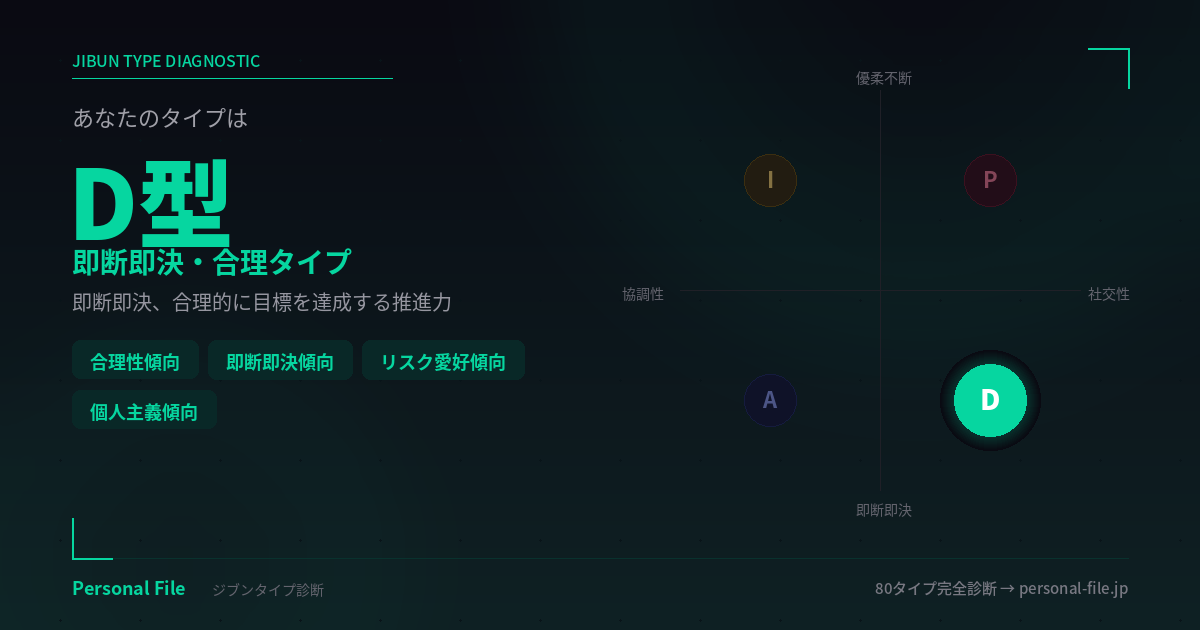
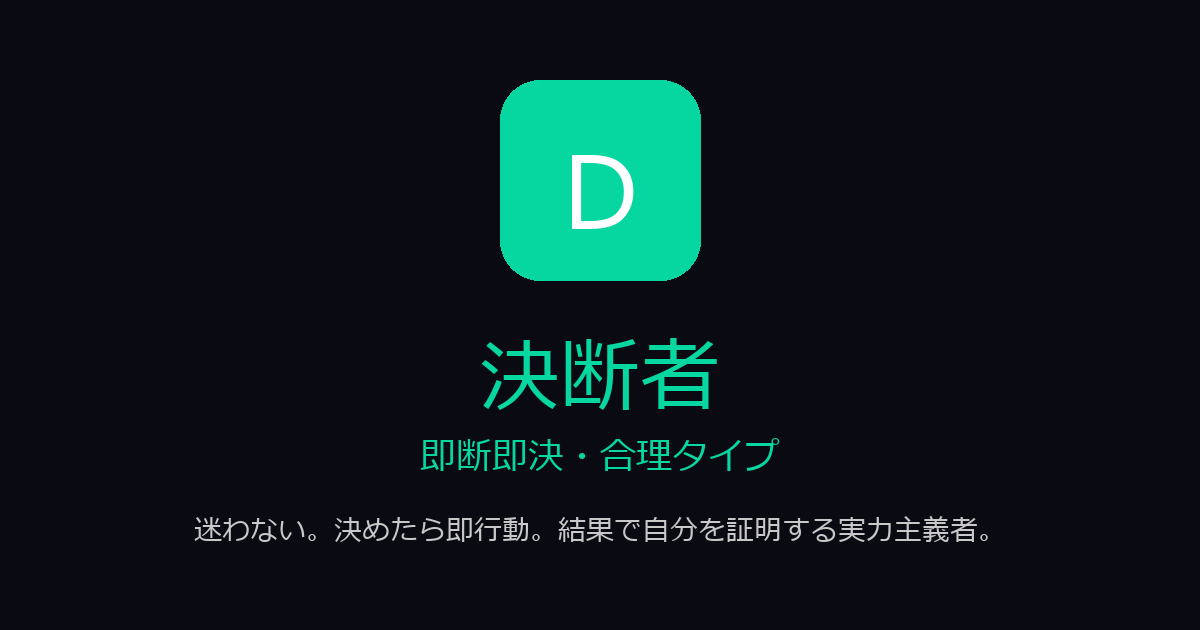
commit55

diff --git a/diagnosis/index.html b/diagnosis/index.html
@@ -23,6 +23,7 @@
   <script crossorigin src="https://unpkg.com/react@18/umd/react.production.min.js"></script>
   <script crossorigin src="https://unpkg.com/react-dom@18/umd/react-dom.production.min.js"></script>
   <script src="https://unpkg.com/@babel/standalone/babel.min.js"></script>
+  <script src="https://cdnjs.cloudflare.com/ajax/libs/html2canvas/1.4.1/html2canvas.min.js"></script>
 
   <!-- Google Fonts -->
   <link href="https://fonts.googleapis.com/css2?family=Sora:wght@300;400;500;600;700;800&family=Noto+Sans+JP:wght@400;500;600;700;800;900&display=swap" rel="stylesheet" />
@@ -1240,6 +1241,8 @@ function ResultScreen({ scores, adRoute }) {
   const [phase, setPhase] = useState(0);
   const [bucketAnswer, setBucketAnswer] = useState(null);
   const [showPreview, setShowPreview] = useState(false);
+  const [isSharingX, setIsSharingX] = useState(false);
+  const [isSharingLine, setIsSharingLine] = useState(false);
 
 
   useEffect(() => {
@@ -2061,11 +2064,43 @@ function ResultScreen({ scores, adRoute }) {
               }}
             >
               <button
-                onClick={() => {
+                disabled={isSharingLine}
+                onClick={async () => {
+                  if (isSharingLine) return;
+                  setIsSharingLine(true);
                   const resultUrl = `https://www.personal-file.jp/diagnosis/${maxType}`;
                   const text = `ジブンタイプ診断の結果は「${d.name}（${d.label}）」でした ✦\n\nたった10問で診断できます👇\n`;
+                  
+                  try {
+                    const shareEl = document.getElementById("share-image-template");
+                    // Web Share APIとファイル添付が可能か（主にスマホを対象）
+                    const isMobile = /iPhone|iPad|iPod|Android/i.test(navigator.userAgent);
+                    if (isMobile && shareEl && navigator.canShare) {
+                       const canvas = await html2canvas(shareEl, {
+                          scale: 2,
+                          backgroundColor: "#0A0A12",
+                          useCORS: true
+                       });
+                       const blob = await new Promise(resolve => canvas.toBlob(resolve, 'image/png'));
+                       const file = new File([blob], `result_${maxType}.png`, { type: 'image/png' });
+                       
+                       if (navigator.canShare({ files: [file] })) {
+                           await navigator.share({
+                               text: text + resultUrl, // LINE等でもテキスト+画像が送れることが多い
+                               files: [file]
+                           });
+                           setIsSharingLine(false);
+                           return; // シェア成功
+                       }
+                    }
+                  } catch (e) {
+                    console.error("Native share failed:", e);
+                  }
+                  
+                  // フォールバック: 通常のLINEシェアURL
                   const lineUrl = `https://social-plugins.line.me/lineit/share?url=${encodeURIComponent(resultUrl)}&text=${encodeURIComponent(text)}`;
                   window.open(lineUrl, "_blank");
+                  setIsSharingLine(false);
                 }}
                 style={{
                   background: "rgba(6,199,85,0.12)",
@@ -2075,22 +2110,57 @@ function ResultScreen({ scores, adRoute }) {
                   color: "#06C755",
                   fontSize: "13px",
                   fontWeight: 600,
-                  cursor: "pointer",
+                  cursor: isSharingLine ? "not-allowed" : "pointer",
                   transition: "all 0.2s ease",
                   display: "flex",
                   alignItems: "center",
                   gap: "6px",
+                  opacity: isSharingLine ? 0.6 : 1
                 }}
               >
                 <span style={{ fontSize: "16px", lineHeight: 1 }}>💬</span>
-                LINEで送る
+                {isSharingLine ? "処理中..." : "LINEで送る"}
               </button>
+              
               <button
-                onClick={() => {
+                disabled={isSharingX}
+                onClick={async () => {
+                  if (isSharingX) return;
+                  setIsSharingX(true);
                   const resultUrl = `https://www.personal-file.jp/diagnosis/${maxType}`;
                   const text = `ジブンタイプ診断の結果は「${d.name}（${d.label}）」でした ✦\n\nたった10問で診断できます👇\n`;
+                  
+                  try {
+                    const shareEl = document.getElementById("share-image-template");
+                    // Web Share APIとファイル添付が可能か（主にスマホを対象）
+                    const isMobile = /iPhone|iPad|iPod|Android/i.test(navigator.userAgent);
+                    
+                    if (isMobile && shareEl && navigator.canShare) {
+                       const canvas = await html2canvas(shareEl, {
+                          scale: 2,
+                          backgroundColor: "#0A0A12",
+                          useCORS: true
+                       });
+                       const blob = await new Promise(resolve => canvas.toBlob(resolve, 'image/png'));
+                       const file = new File([blob], `result_${maxType}.png`, { type: 'image/png' });
+                       
+                       if (navigator.canShare({ files: [file] })) {
+                           await navigator.share({
+                               text: text + "\n" + resultUrl, // Xの仕様でテキスト内にURLを含める
+                               files: [file]
+                           });
+                           setIsSharingX(false);
+                           return; // 成功
+                       }
+                    }
+                  } catch (e) {
+                     console.error("Native share failed", e);
+                  }
+                  
+                  // フォールバック: 通常のOGP付きツイート
                   const tweetUrl = `https://twitter.com/intent/tweet?text=${encodeURIComponent(text)}&url=${encodeURIComponent(resultUrl)}`;
                   window.open(tweetUrl, "_blank");
+                  setIsSharingX(false);
                 }}
                 style={{
                   background: "rgba(255,255,255,0.06)",
@@ -2100,12 +2170,88 @@ function ResultScreen({ scores, adRoute }) {
                   color: "#C0C0C8",
                   fontSize: "13px",
                   fontWeight: 600,
-                  cursor: "pointer",
+                  cursor: isSharingX ? "not-allowed" : "pointer",
                   transition: "all 0.2s ease",
+                  display: "flex",
+                  alignItems: "center",
+                  gap: "6px",
+                  opacity: isSharingX ? 0.6 : 1
                 }}
               >
-                𝕏 でシェア
+                {isSharingX ? "生成中..." : "𝕏 でシェア"}
               </button>
+            </div>
+            
+            {/* --- シェア画像生成用 隠しテンプレート --- */}
+            <div 
+              id="share-image-template"
+              style={{
+                position: "fixed",
+                left: "-9999px",
+                top: "-9999px",
+                width: "480px",
+                height: "540px",
+                background: "#0A0A12",
+                fontFamily: "'Noto Sans JP', sans-serif",
+                display: "flex",
+                flexDirection: "column",
+                alignItems: "center",
+                justifyContent: "center",
+                padding: "40px",
+                boxSizing: "border-box"
+              }}
+            >
+                <div style={{
+                  width: "120px",
+                  height: "120px",
+                  borderRadius: "24px",
+                  background: d.gradient,
+                  display: "flex",
+                  alignItems: "center",
+                  justifyContent: "center",
+                  marginBottom: "32px",
+                  boxShadow: `0 0 40px ${d.color}40`,
+                }}>
+                  <span style={{ fontFamily: "'Sora', sans-serif", fontSize: "72px", fontWeight: 800, color: maxType==="I"?"#1A1A2A":"#fff", lineHeight: 1 }}>
+                    {maxType}
+                  </span>
+                </div>
+                
+                <h1 style={{
+                  fontSize: "44px",
+                  fontWeight: 900,
+                  margin: "0 0 20px",
+                  background: d.gradient,
+                  WebkitBackgroundClip: "text",
+                  WebkitTextFillColor: "transparent",
+                }}>
+                  {d.name}
+                </h1>
+                
+                <div style={{ fontSize: "18px", color: d.color, fontWeight: 700, marginBottom: "32px" }}>
+                  {d.label}
+                </div>
+                
+                <p style={{ fontSize: "16px", color: "#C0C0C8", lineHeight: 1.6, textAlign: "center", marginBottom: "40px", padding: "0 20px" }}>
+                  {d.catchcopy}
+                </p>
+                
+                <div style={{
+                   background: "linear-gradient(135deg, #FF2D55 0%, #C91B78 40%, #4361EE 100%)",
+                   color: "#fff",
+                   padding: "20px 48px",
+                   borderRadius: "16px",
+                   fontSize: "20px",
+                   fontWeight: 700,
+                   marginBottom: "24px",
+                   boxShadow: "0 4px 24px rgba(255,45,85,0.4)"
+                }}>
+                   あなたも診断を受ける
+                </div>
+                
+                <div style={{ fontSize: "14px", color: "#666" }}>
+                   たった10問で診断できます
+                </div>
             </div>
           </div>
         )}

diff --git a/generate_ogp.py b/generate_ogp.py
@@ -1,0 +1,91 @@
+import os
+from PIL import Image, ImageDraw, ImageFont
+
+colors = {
+    'P': ('#FF2D55', '#D91A40', '🌟'),
+    'I': ('#FFBE0B', '#E5A800', '🤝'),
+    'A': ('#4361EE', '#3A0CA3', '🔍'),
+    'D': ('#06D6A0', '#05A67D', '⚡')
+}
+
+labels = {
+    'P': 'ポジティブ・直感タイプ',
+    'I': '協調・平和志向タイプ',
+    'A': '慎重・論理重視タイプ',
+    'D': '即断即決・合理タイプ'
+}
+
+names = {
+    'P': '行動者',
+    'I': '調和者',
+    'A': '分析者',
+    'D': '決断者'
+}
+
+catchcopies = {
+    'P': '考えるより先に動く。ノリと勢いで場を動かすムードメーカー。',
+    'I': '人の気持ちに敏感で、チームの空気を整える調整力の持ち主。',
+    'A': '情報を集め、筋道を立て、最善策を見つけ出す知性派。',
+    'D': '迷わない。決めたら即行動。結果で自分を証明する実力主義者。'
+}
+
+def hex_to_rgb(h):
+    h = h.lstrip('#')
+    return tuple(int(h[i:i+2], 16) for i in (0, 2, 4))
+
+W, H = 1200, 630
+
+# Try to find a Japanese font
+font_path = "C:\\Windows\\Fonts\\meiryo.ttc"
+if not os.path.exists(font_path):
+    font_path = "C:\\Windows\\Fonts\\msgothic.ttc"
+
+try:
+    font_large_icon = ImageFont.truetype(font_path, 100)
+    font_title = ImageFont.truetype(font_path, 80)
+    font_label = ImageFont.truetype(font_path, 36)
+    font_catch = ImageFont.truetype(font_path, 28)
+except:
+    font_large_icon = ImageFont.load_default()
+    font_title = ImageFont.load_default()
+    font_label = ImageFont.load_default()
+    font_catch = ImageFont.load_default()
+
+for t in ['P', 'I', 'A', 'D']:
+    img = Image.new('RGB', (W, H), hex_to_rgb('#0A0A12'))
+    d = ImageDraw.Draw(img)
+    
+    col1, col2, emoji = colors[t]
+    c1, c2 = hex_to_rgb(col1), hex_to_rgb(col2)
+    
+    # Draw icon box
+    box_w, box_h = 200, 200
+    box_x, box_y = (W - box_w) // 2, 80
+    d.rounded_rectangle([box_x, box_y, box_x+box_w, box_y+box_h], radius=40, fill=c1)
+    
+    txt = t
+    bbox = d.textbbox((0, 0), txt, font=font_large_icon)
+    tw, th = bbox[2] - bbox[0], bbox[3] - bbox[1]
+    text_color = (255, 255, 255) if t != 'I' else (26, 26, 42)
+    d.text((box_x + (box_w - tw)/2, box_y + (box_h - th)/2 - 20), txt, font=font_large_icon, fill=text_color)
+    
+    # Title
+    txt_title = names[t]
+    bbox = d.textbbox((0, 0), txt_title, font=font_title)
+    tw, th = bbox[2] - bbox[0], bbox[3] - bbox[1]
+    d.text(((W - tw)/2, box_y + box_h + 40), txt_title, font=font_title, fill=c1)
+    
+    # Label
+    txt_label = labels[t]
+    bbox = d.textbbox((0, 0), txt_label, font=font_label)
+    tw, th = bbox[2] - bbox[0], bbox[3] - bbox[1]
+    d.text(((W - tw)/2, box_y + box_h + 150), txt_label, font=font_label, fill=c1)
+    
+    # Catchcopy
+    txt_catch = catchcopies[t]
+    bbox = d.textbbox((0, 0), txt_catch, font=font_catch)
+    tw, th = bbox[2] - bbox[0], bbox[3] - bbox[1]
+    d.text(((W - tw)/2, box_y + box_h + 230), txt_catch, font=font_catch, fill=(200, 200, 200))
+    
+    img.save(f"share_ogp_{t}.png")
+    print(f"Generated share_ogp_{t}.png")
